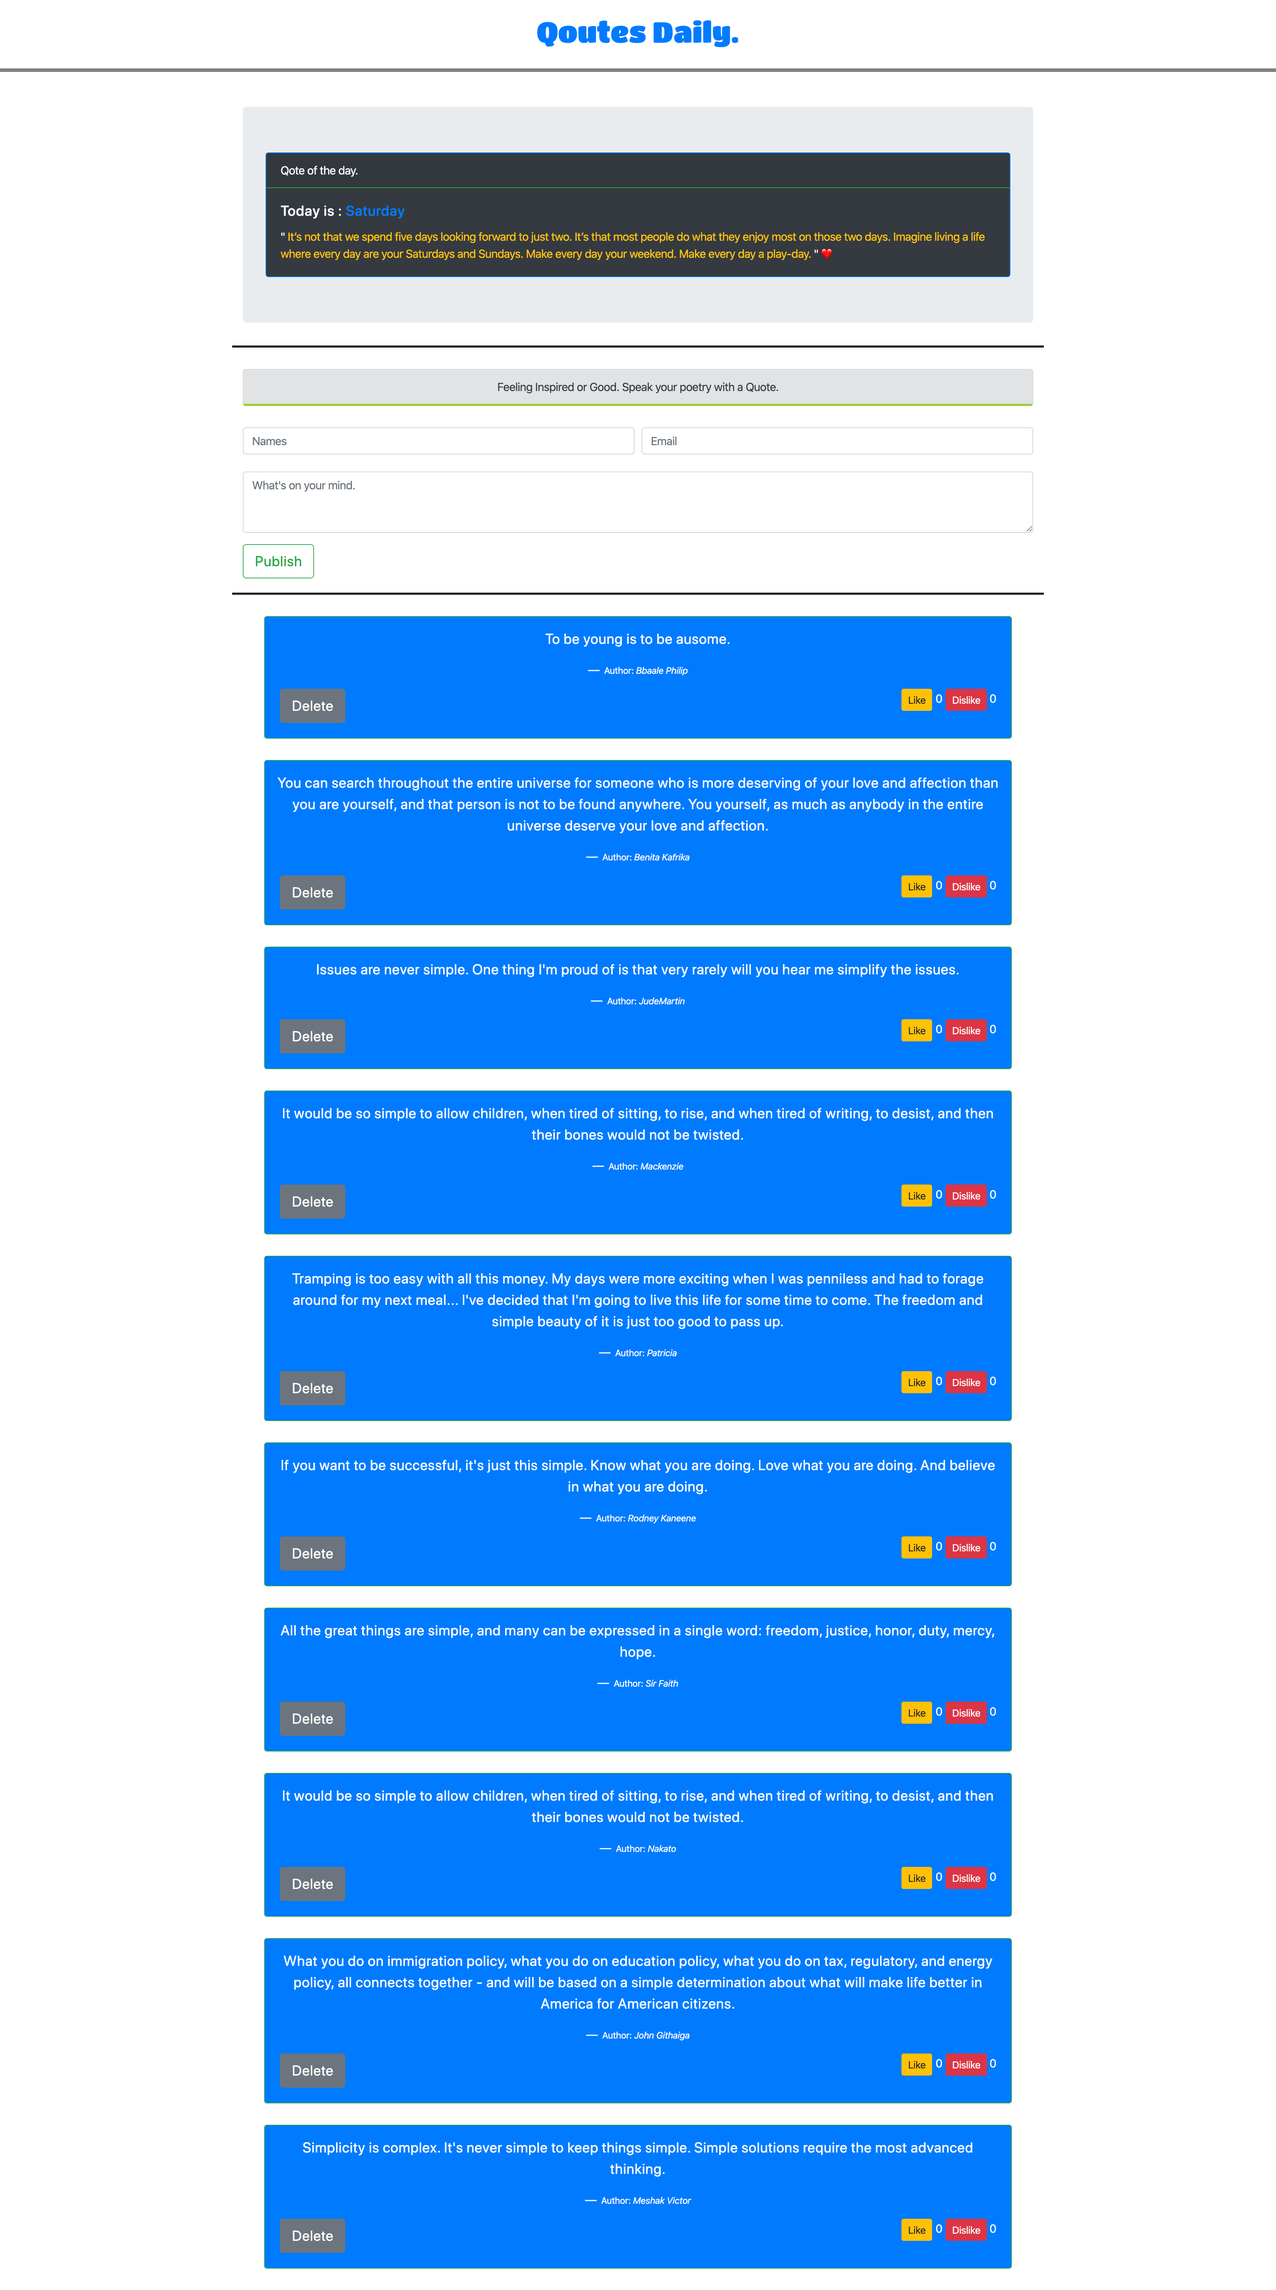
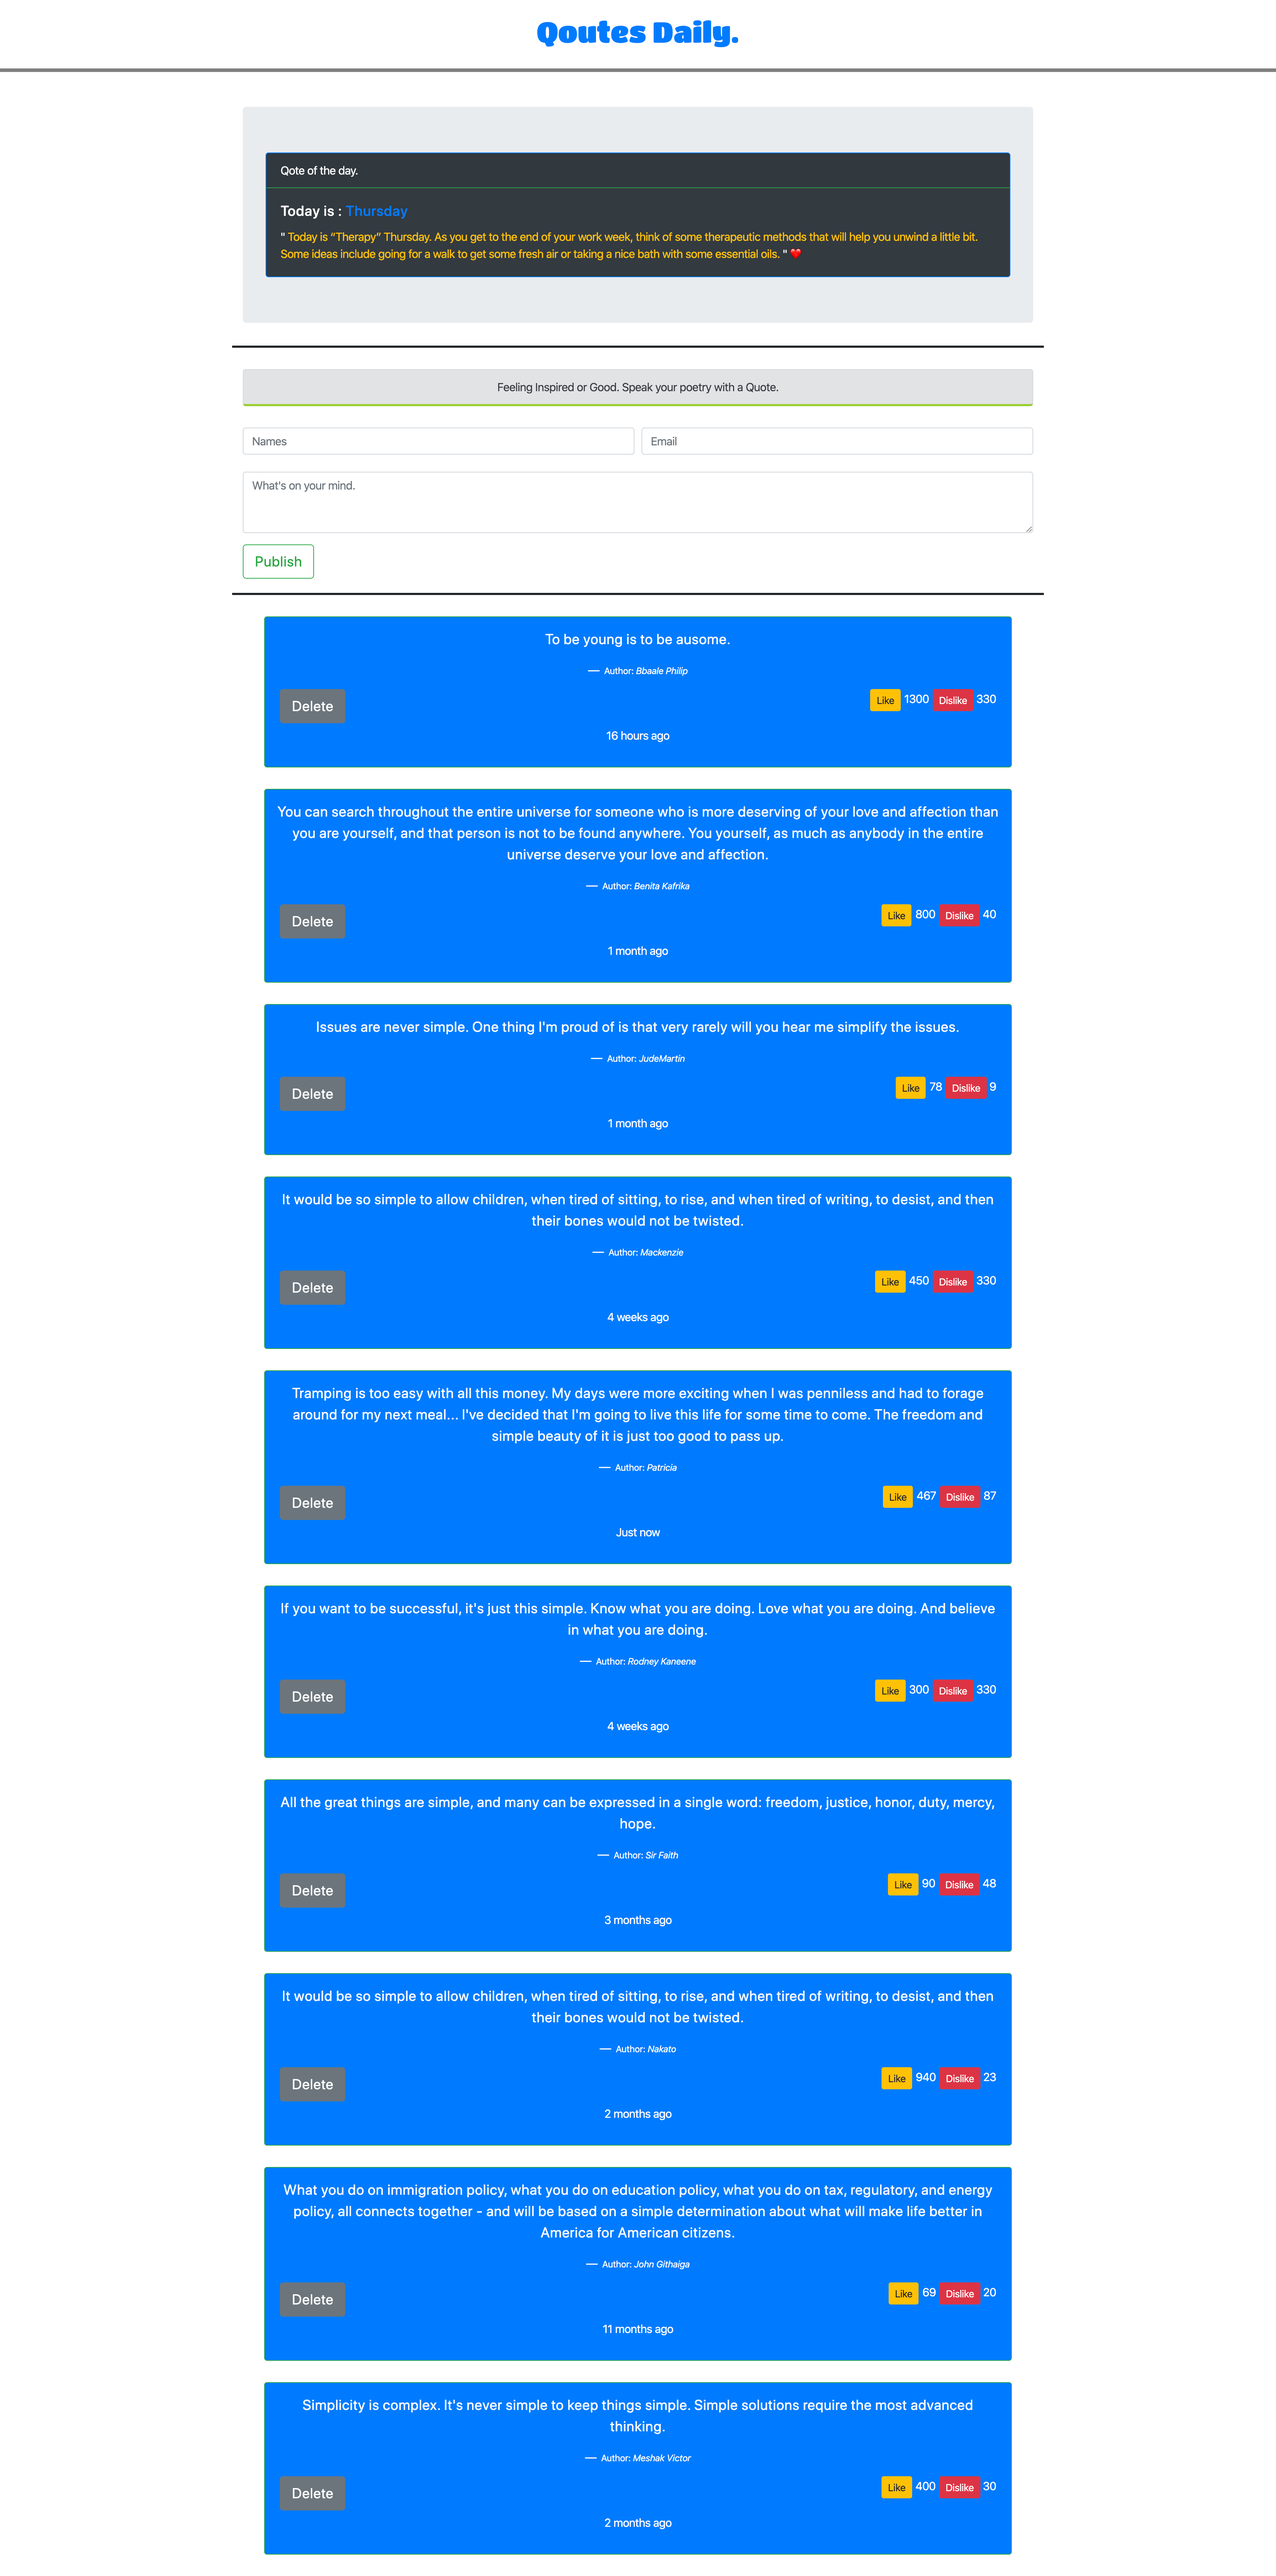
addig pipes and new screenshot

Changed region(s): [[0.1875, 0.0, 0.8125, 0.9953]]

diff --git a/src/app/components/quote/quote.component.ts b/src/app/components/quote/quote.component.ts
@@ -14,16 +14,16 @@ export class QuoteComponent implements OnInit {
   numberOfDownVotes: any = VoteComponent.numberOfDownVote;*/
 
   quotes:Quotes[]=[
-    {names:'Bbaale Philip', quote:'To be young is to be ausome.', email:'namugera.philip@gmail.com', numberOfUpVotes:1300 ,numberOfDownVotes:330},
-    {names:'Benita Kafrika', quote:'You can search throughout the entire universe for someone who is more deserving of your love and affection than you are yourself, and that person is not to be found anywhere. You yourself, as much as anybody in the entire universe deserve your love and affection.', email:'bkafrika@gmail.com', numberOfUpVotes:80 ,numberOfDownVotes:40},
-    {names:'JudeMartin', quote:"Issues are never simple. One thing I'm proud of is that very rarely will you hear me simplify the issues.", email:'judebbaale@gmail.com', numberOfUpVotes:78 ,numberOfDownVotes:9},
-    {names:'Mackenzie', quote:"It would be so simple to allow children, when tired of sitting, to rise, and when tired of writing, to desist, and then their bones would not be twisted.", email:'mackenzie@gmail.com', numberOfUpVotes:450 ,numberOfDownVotes:330},
-    {names:'Patricia', quote:"Tramping is too easy with all this money. My days were more exciting when I was penniless and had to forage around for my next meal... I've decided that I'm going to live this life for some time to come. The freedom and simple beauty of it is just too good to pass up.", email:'patricia@gmail.com', numberOfUpVotes:467 ,numberOfDownVotes:87},
-    {names:'Rodney Kaneene', quote:"If you want to be successful, it's just this simple. Know what you are doing. Love what you are doing. And believe in what you are doing.", email:'rodney@gmail.com', numberOfUpVotes:300 ,numberOfDownVotes:330},
-    {names:'Sir Faith', quote:"All the great things are simple, and many can be expressed in a single word: freedom, justice, honor, duty, mercy, hope.", email:'faith@gmail.com', numberOfUpVotes:90 ,numberOfDownVotes:48},
-    {names:'Nakato', quote:"It would be so simple to allow children, when tired of sitting, to rise, and when tired of writing, to desist, and then their bones would not be twisted.", email:'nakato@gmail.com', numberOfUpVotes:940 ,numberOfDownVotes:23},
-    {names:'John Githaiga', quote:"What you do on immigration policy, what you do on education policy, what you do on tax, regulatory, and energy policy, all connects together - and will be based on a simple determination about what will make life better in America for American citizens.", email:'john@gmail.com', numberOfUpVotes:69 ,numberOfDownVotes:20},
-    {names:'Meshak Victor', quote:"Simplicity is complex. It's never simple to keep things simple. Simple solutions require the most advanced thinking.", email:'meshak@gmail.com', numberOfUpVotes:400 ,numberOfDownVotes:30}
+    new Quotes('Bbaale Philip','To be young is to be ausome.','namugera.philip@gmail.com',1300,330,new Date(2020, 3, 1, 17, 23, 42, 11)),
+    new Quotes('Benita Kafrika','You can search throughout the entire universe for someone who is more deserving of your love and affection than you are yourself, and that person is not to be found anywhere. You yourself, as much as anybody in the entire universe deserve your love and affection.','bkafrika@gmail.com',800,40,new Date(2020, 2, 2, 17, 23, 42, 11)),
+    new Quotes('JudeMartin',"Issues are never simple. One thing I'm proud of is that very rarely will you hear me simplify the issues.",'judebbaale@gmail.com',78,9,new Date(2020, 1, 4, 17, 23, 42, 11)),
+    new Quotes('Mackenzie', "It would be so simple to allow children, when tired of sitting, to rise, and when tired of writing, to desist, and then their bones would not be twisted.", 'mackenzie@gmail.com',450 ,330,new Date(2020, 2, 4, 17, 23, 42, 11)),
+    new Quotes('Patricia',"Tramping is too easy with all this money. My days were more exciting when I was penniless and had to forage around for my next meal... I've decided that I'm going to live this life for some time to come. The freedom and simple beauty of it is just too good to pass up.",'patricia@gmail.com', 467 ,87, new Date(2020, 4, 4, 17, 23, 42, 11)),
+    new Quotes('Rodney Kaneene',"If you want to be successful, it's just this simple. Know what you are doing. Love what you are doing. And believe in what you are doing.",'rodney@gmail.com', 300 ,330, new Date(2020, 2, 4, 17, 23, 42, 11)),
+    new Quotes('Sir Faith',"All the great things are simple, and many can be expressed in a single word: freedom, justice, honor, duty, mercy, hope.",'faith@gmail.com', 90 ,48, new Date(2019, 11, 4, 17, 23, 42, 11)),
+    new Quotes('Nakato', "It would be so simple to allow children, when tired of sitting, to rise, and when tired of writing, to desist, and then their bones would not be twisted.", 'nakato@gmail.com',940 ,23, new Date(2019, 12, 4, 17, 23, 42, 11)),
+    new Quotes('John Githaiga',"What you do on immigration policy, what you do on education policy, what you do on tax, regulatory, and energy policy, all connects together - and will be based on a simple determination about what will make life better in America for American citizens.", 'john@gmail.com', 69 ,20, new Date(2019, 4, 4, 17, 23, 42, 11)),
+    new Quotes('Meshak Victor', "Simplicity is complex. It's never simple to keep things simple. Simple solutions require the most advanced thinking.",'meshak@gmail.com', 400 ,30, new Date(2019, 12, 4, 17, 23, 42, 11)),
   ]
  
   

diff --git a/src/app/pipes/date-ago.pipe.ts b/src/app/pipes/date-ago.pipe.ts
@@ -1,0 +1,36 @@
+import { Pipe, PipeTransform } from '@angular/core';
+
+@Pipe({
+  name: 'dateAgo'
+})
+export class DateAgoPipe implements PipeTransform {
+
+  transform(value: any, args?: any): any {
+    if (value) {
+        const seconds = Math.floor((+new Date() - +new Date(value)) / 1000);
+        if (seconds < 29) // less than 30 seconds ago will show as 'Just now'
+            return 'Just now';
+        const intervals = {
+            'year': 31536000,
+            'month': 2592000,
+            'week': 604800,
+            'day': 86400,
+            'hour': 3600,
+            'minute': 60,
+            'second': 1
+        };
+        let counter;
+        for (const i in intervals) {
+            counter = Math.floor(seconds / intervals[i]);
+            if (counter > 0)
+                if (counter === 1) {
+                    return counter + ' ' + i + ' ago'; // singular (1 day ago)
+                } else {
+                    return counter + ' ' + i + 's ago'; // plural (2 days ago)
+                }
+        }
+    }
+    return value;
+}
+
+}

diff --git a/src/app/app.module.ts b/src/app/app.module.ts
@@ -9,6 +9,7 @@ import { DailyQuoteComponent } from './components/daily-quote/daily-quote.compon
 import { WriteQuoteComponent } from './components/write-quote/write-quote.component';
 import { QuoteComponent } from './components/quote/quote.component';
 import { VoteComponent } from './components/vote/vote.component';
+import { DateAgoPipe } from './pipes/date-ago.pipe';
 
 @NgModule({
   declarations: [
@@ -16,7 +17,8 @@ import { VoteComponent } from './components/vote/vote.component';
     DailyQuoteComponent,
     WriteQuoteComponent,
     QuoteComponent,
-    VoteComponent
+    VoteComponent,
+    DateAgoPipe
   ],
   imports: [
     BrowserModule,

diff --git a/src/app/classes/quotes.ts b/src/app/classes/quotes.ts
@@ -2,9 +2,15 @@ import { VoteComponent } from '../components/vote/vote.component'
 
 
 export class Quotes {
-    public names:string;
+    
+    /*public names:string;
     public quote:string;
     public email:string;
     public numberOfUpVotes:number=0;
     public numberOfDownVotes:number=0;
+    public timing: Date;*/
+
+    constructor(public names:string, public quote:string, public email:string, public numberOfUpVotes:number=0, public numberOfDownVotes:number=0,public timing: Date){
+
+    }
 }

diff --git a/src/app/components/write-quote/write-quote.component.ts b/src/app/components/write-quote/write-quote.component.ts
@@ -8,12 +8,12 @@ import { Quotes } from '../../classes/quotes';
 })
 export class WriteQuoteComponent implements OnInit {
 
-  newQoute = new Quotes();
+  newQoute = new Quotes("","","",0,0,new Date());
   @Output() addQuote = new EventEmitter<Quotes>();
 
   submitQuote(){
     this.addQuote.emit(this.newQoute);
-    this.newQoute = new Quotes();
+    this.newQoute = new Quotes("","","",0,0,new Date());
   }
   constructor() { }
 

diff --git a/src/app/components/quote/quote.component.html b/src/app/components/quote/quote.component.html
@@ -29,6 +29,12 @@
         </div>
         </div>
       </div>
+
+      <div class="row">
+        <div class="col-12">
+          <p>{{quote.timing | dateAgo}}</p>
+        </div>
+      </div>
     </div>
   
   </div>

diff --git a/src/app/pipes/date-ago.pipe.spec.ts b/src/app/pipes/date-ago.pipe.spec.ts
@@ -1,0 +1,8 @@
+import { DateAgoPipe } from './date-ago.pipe';
+
+describe('DateAgoPipe', () => {
+  it('create an instance', () => {
+    const pipe = new DateAgoPipe();
+    expect(pipe).toBeTruthy();
+  });
+});
